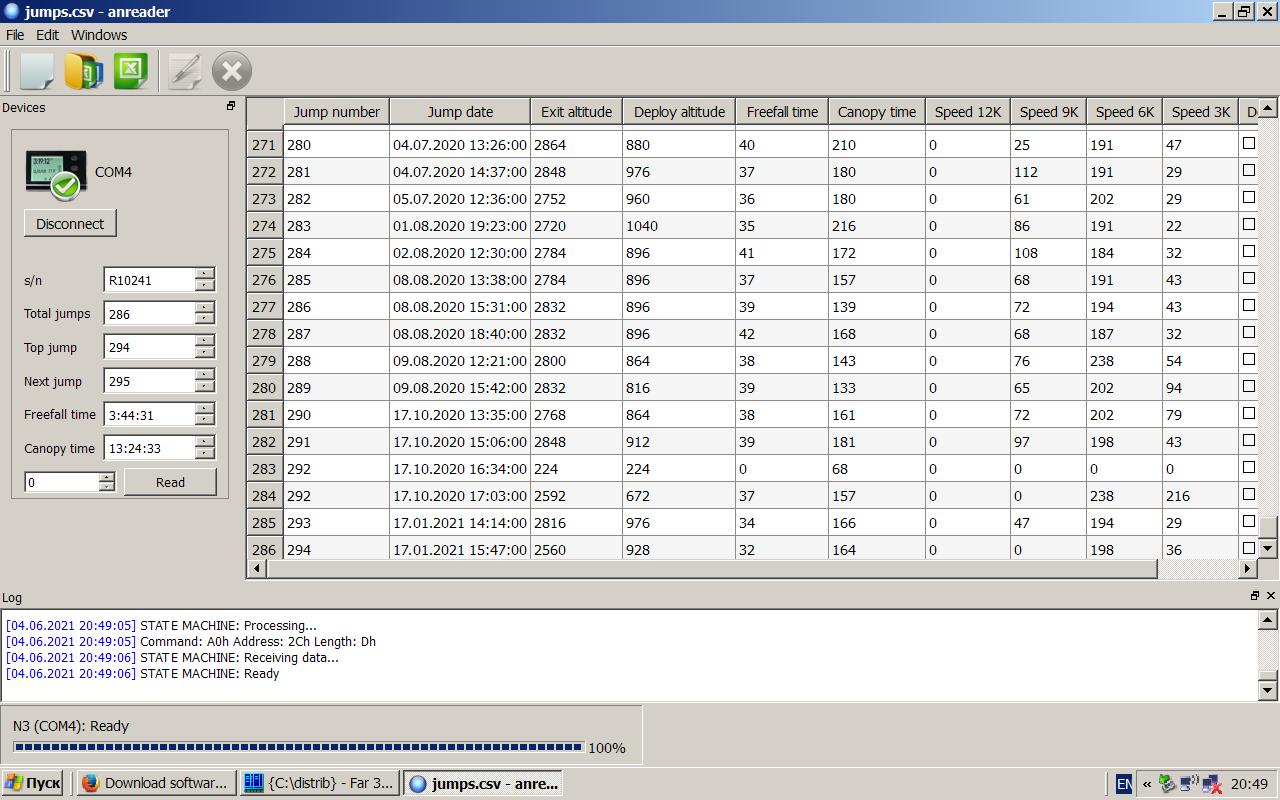
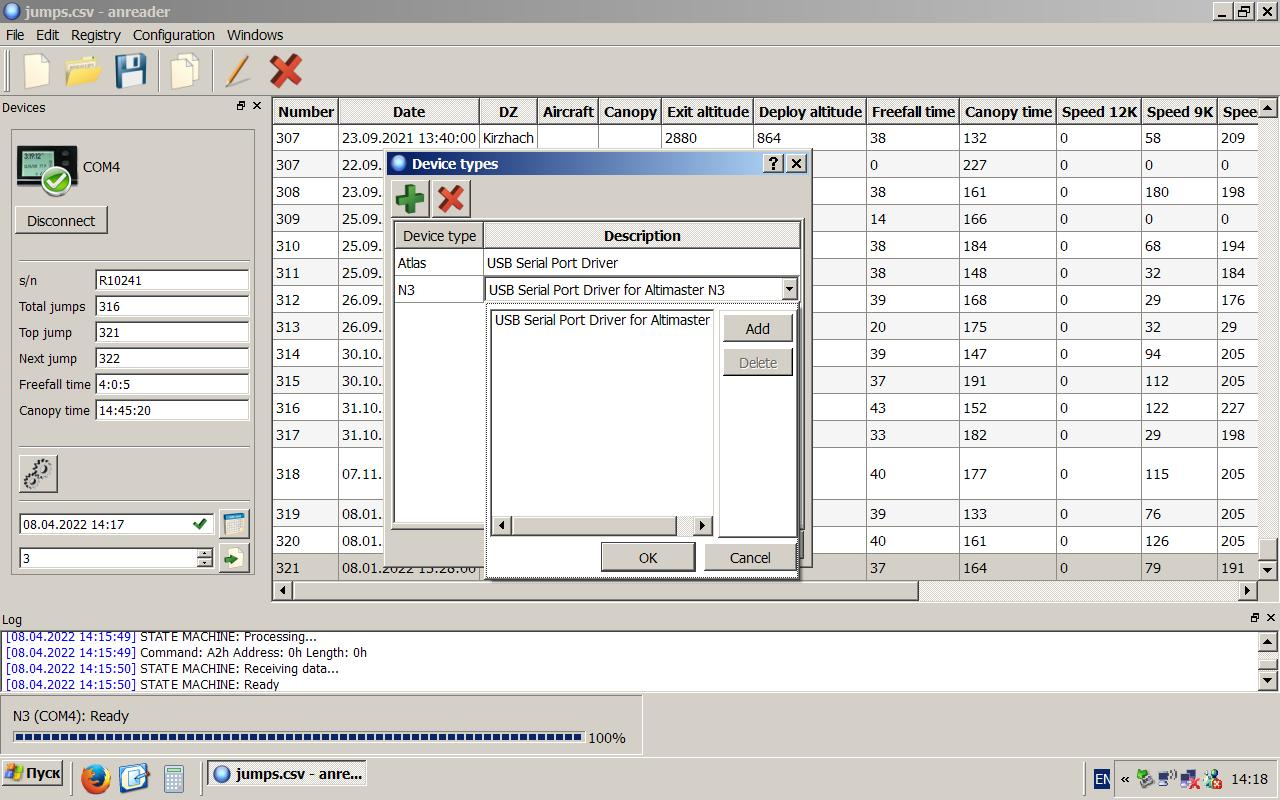
new iconset 2

diff --git a/anreader_sources/device_widgets/n3widget.cpp b/anreader_sources/device_widgets/n3widget.cpp
@@ -15,7 +15,6 @@ DeviceFrame::DeviceFrame(QWidget *parent) : QFrame (parent)
     lSettings->addWidget(&tb_settings);
     lSettings->addStretch();
 
-    //m_settings_action = std::make_unique<QAction>(QIcon(":/images/icons/buttons/edit.png"), "");
     tb_settings.setToolTip(tr("Device settings..."));
     tb_settings.setIconSize(QSize(32, 32));
     tb_settings.setIcon(QIcon(":/images/icons/buttons/device_settings.png"));
@@ -67,17 +66,17 @@ DeviceFrame::DeviceFrame(QWidget *parent) : QFrame (parent)
 
     sb_number.setRange(0, 0);
 
-    pb_read_jumps.setText(QObject::tr("Read"));
+    pb_read_jumps.setIconSize(QSize(n3widget_defs::button_height, n3widget_defs::button_height));
+    pb_read_jumps.setIcon(QIcon(":/images/icons/buttons/export_jumps.png"));
     pb_read_jumps.setToolTip(tr("Read jumps to main table"));
-    pb_read_jumps.setMaximumWidth(n3widget_defs::button_width);
     pb_read_jumps.setEnabled(false);
 
 
     le_clock.setReadOnly(true);
 
-    pb_edit_clock.setText(tr("Edit"));
+    pb_edit_clock.setIconSize(QSize(n3widget_defs::button_height, n3widget_defs::button_height));
+    pb_edit_clock.setIcon(QIcon(":/images/icons/buttons/calendar.png"));
     pb_edit_clock.setToolTip("Edit time...");
-    pb_edit_clock.setMaximumWidth(n3widget_defs::button_width);
 
     m_set_clock_action = le_clock.addAction(QIcon(":/images/icons/buttons/accept.png"), QLineEdit::TrailingPosition);
     m_set_clock_action->setToolTip(tr("Set current time"));
@@ -276,8 +275,7 @@ void N3Widget::stateChanged()
 
     if(m_device)
     {
-        AbstractDevice::DeviceStates state = m_device->state();
-        switch (state) {
+        switch (m_device->state()) {
         case AbstractDevice::DeviceStates::Connected:
             setImage("n3_com2.png");
             break;
@@ -383,7 +381,8 @@ void N3Widget::set_current_datetime()
 {
     QDateTime dt;
     dt = QDateTime::currentDateTime();
-    m_device->set_date_time(dt);
+    if(m_device)
+        m_device->set_date_time(dt);
 }
 
 //----------------------------------------------------------------------------------------------------------------------

diff --git a/anreader_sources/device_widgets/n3widget.h b/anreader_sources/device_widgets/n3widget.h
@@ -20,7 +20,7 @@ class QAction;
 
 class DeviceFrame : public QFrame
 {
-    enum n3widget_defs: int {element_height = 34, n_rows = 8, spacing = 4, line_height = 8, button_width = 70};
+    enum n3widget_defs: int {element_height = 34, n_rows = 8, spacing = 4, line_height = 8, button_height = 24};
 public:
     explicit DeviceFrame(QWidget *parent = nullptr);
     ~DeviceFrame() {}
@@ -41,10 +41,10 @@ private:
     QToolButton tb_settings;
 
     QLineEdit le_clock;
-    QPushButton pb_edit_clock;
+    QToolButton pb_edit_clock;
 
     QSpinBox sb_number;
-    QPushButton pb_read_jumps;
+    QToolButton pb_read_jumps;
 
     QAction* m_set_clock_action = nullptr;
     std::unique_ptr<QAction> m_settings_action;
